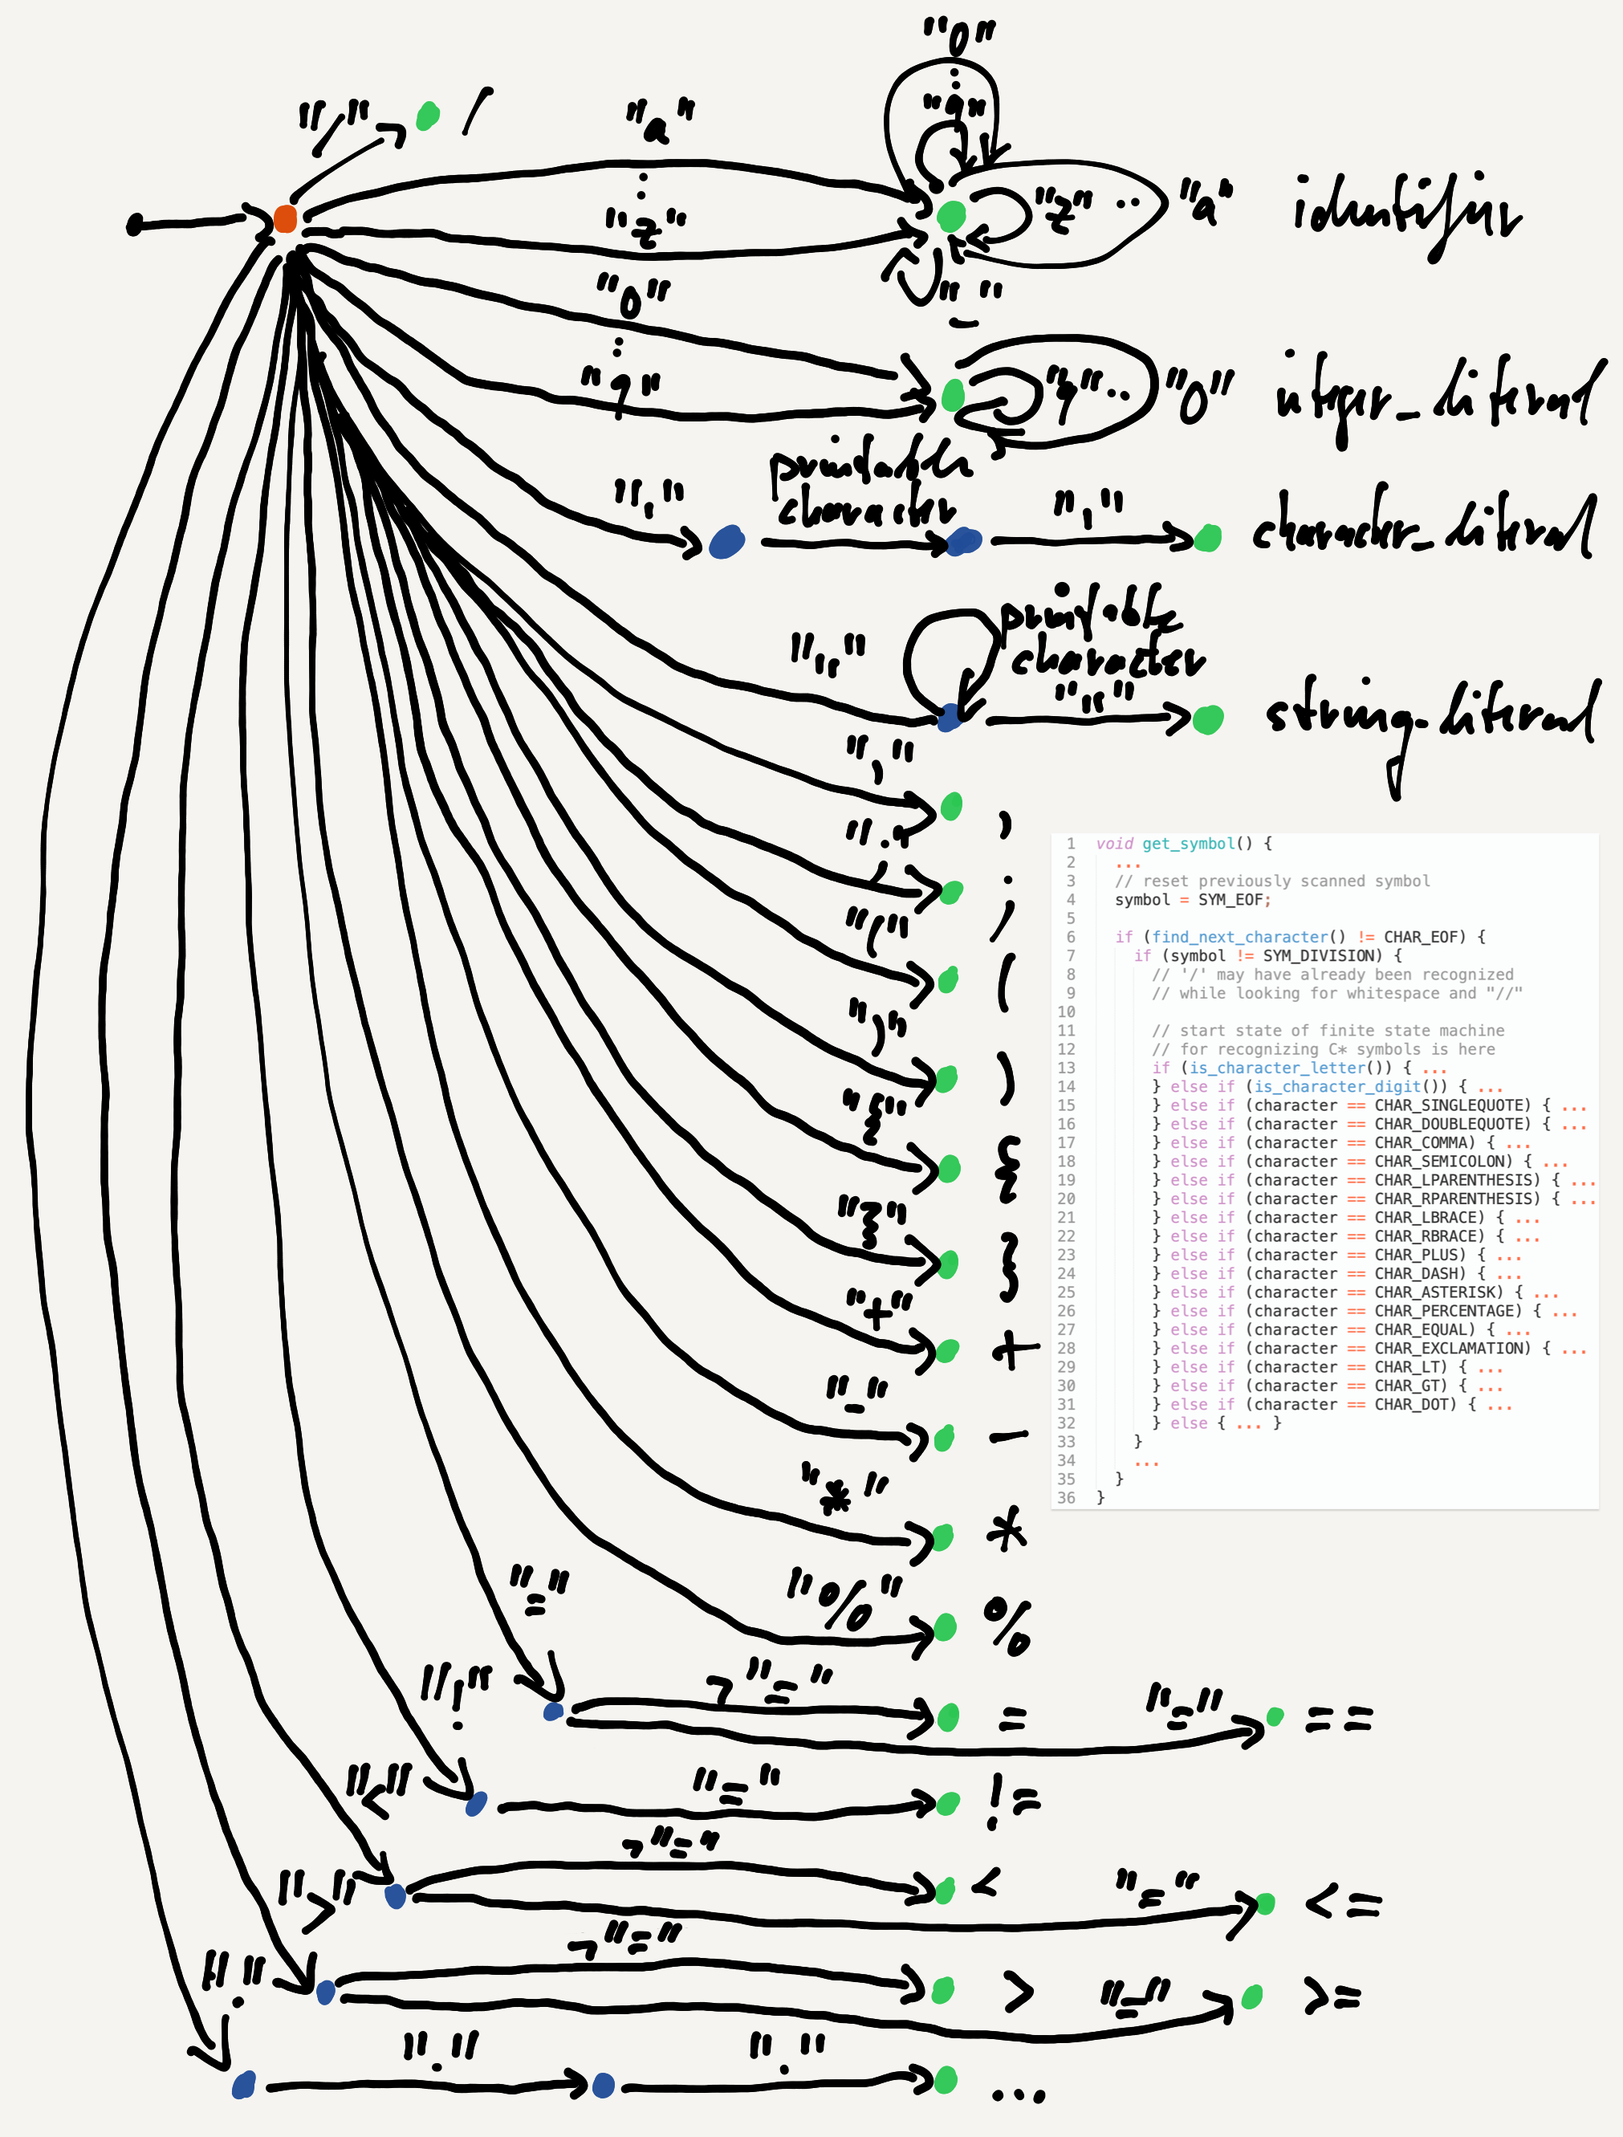
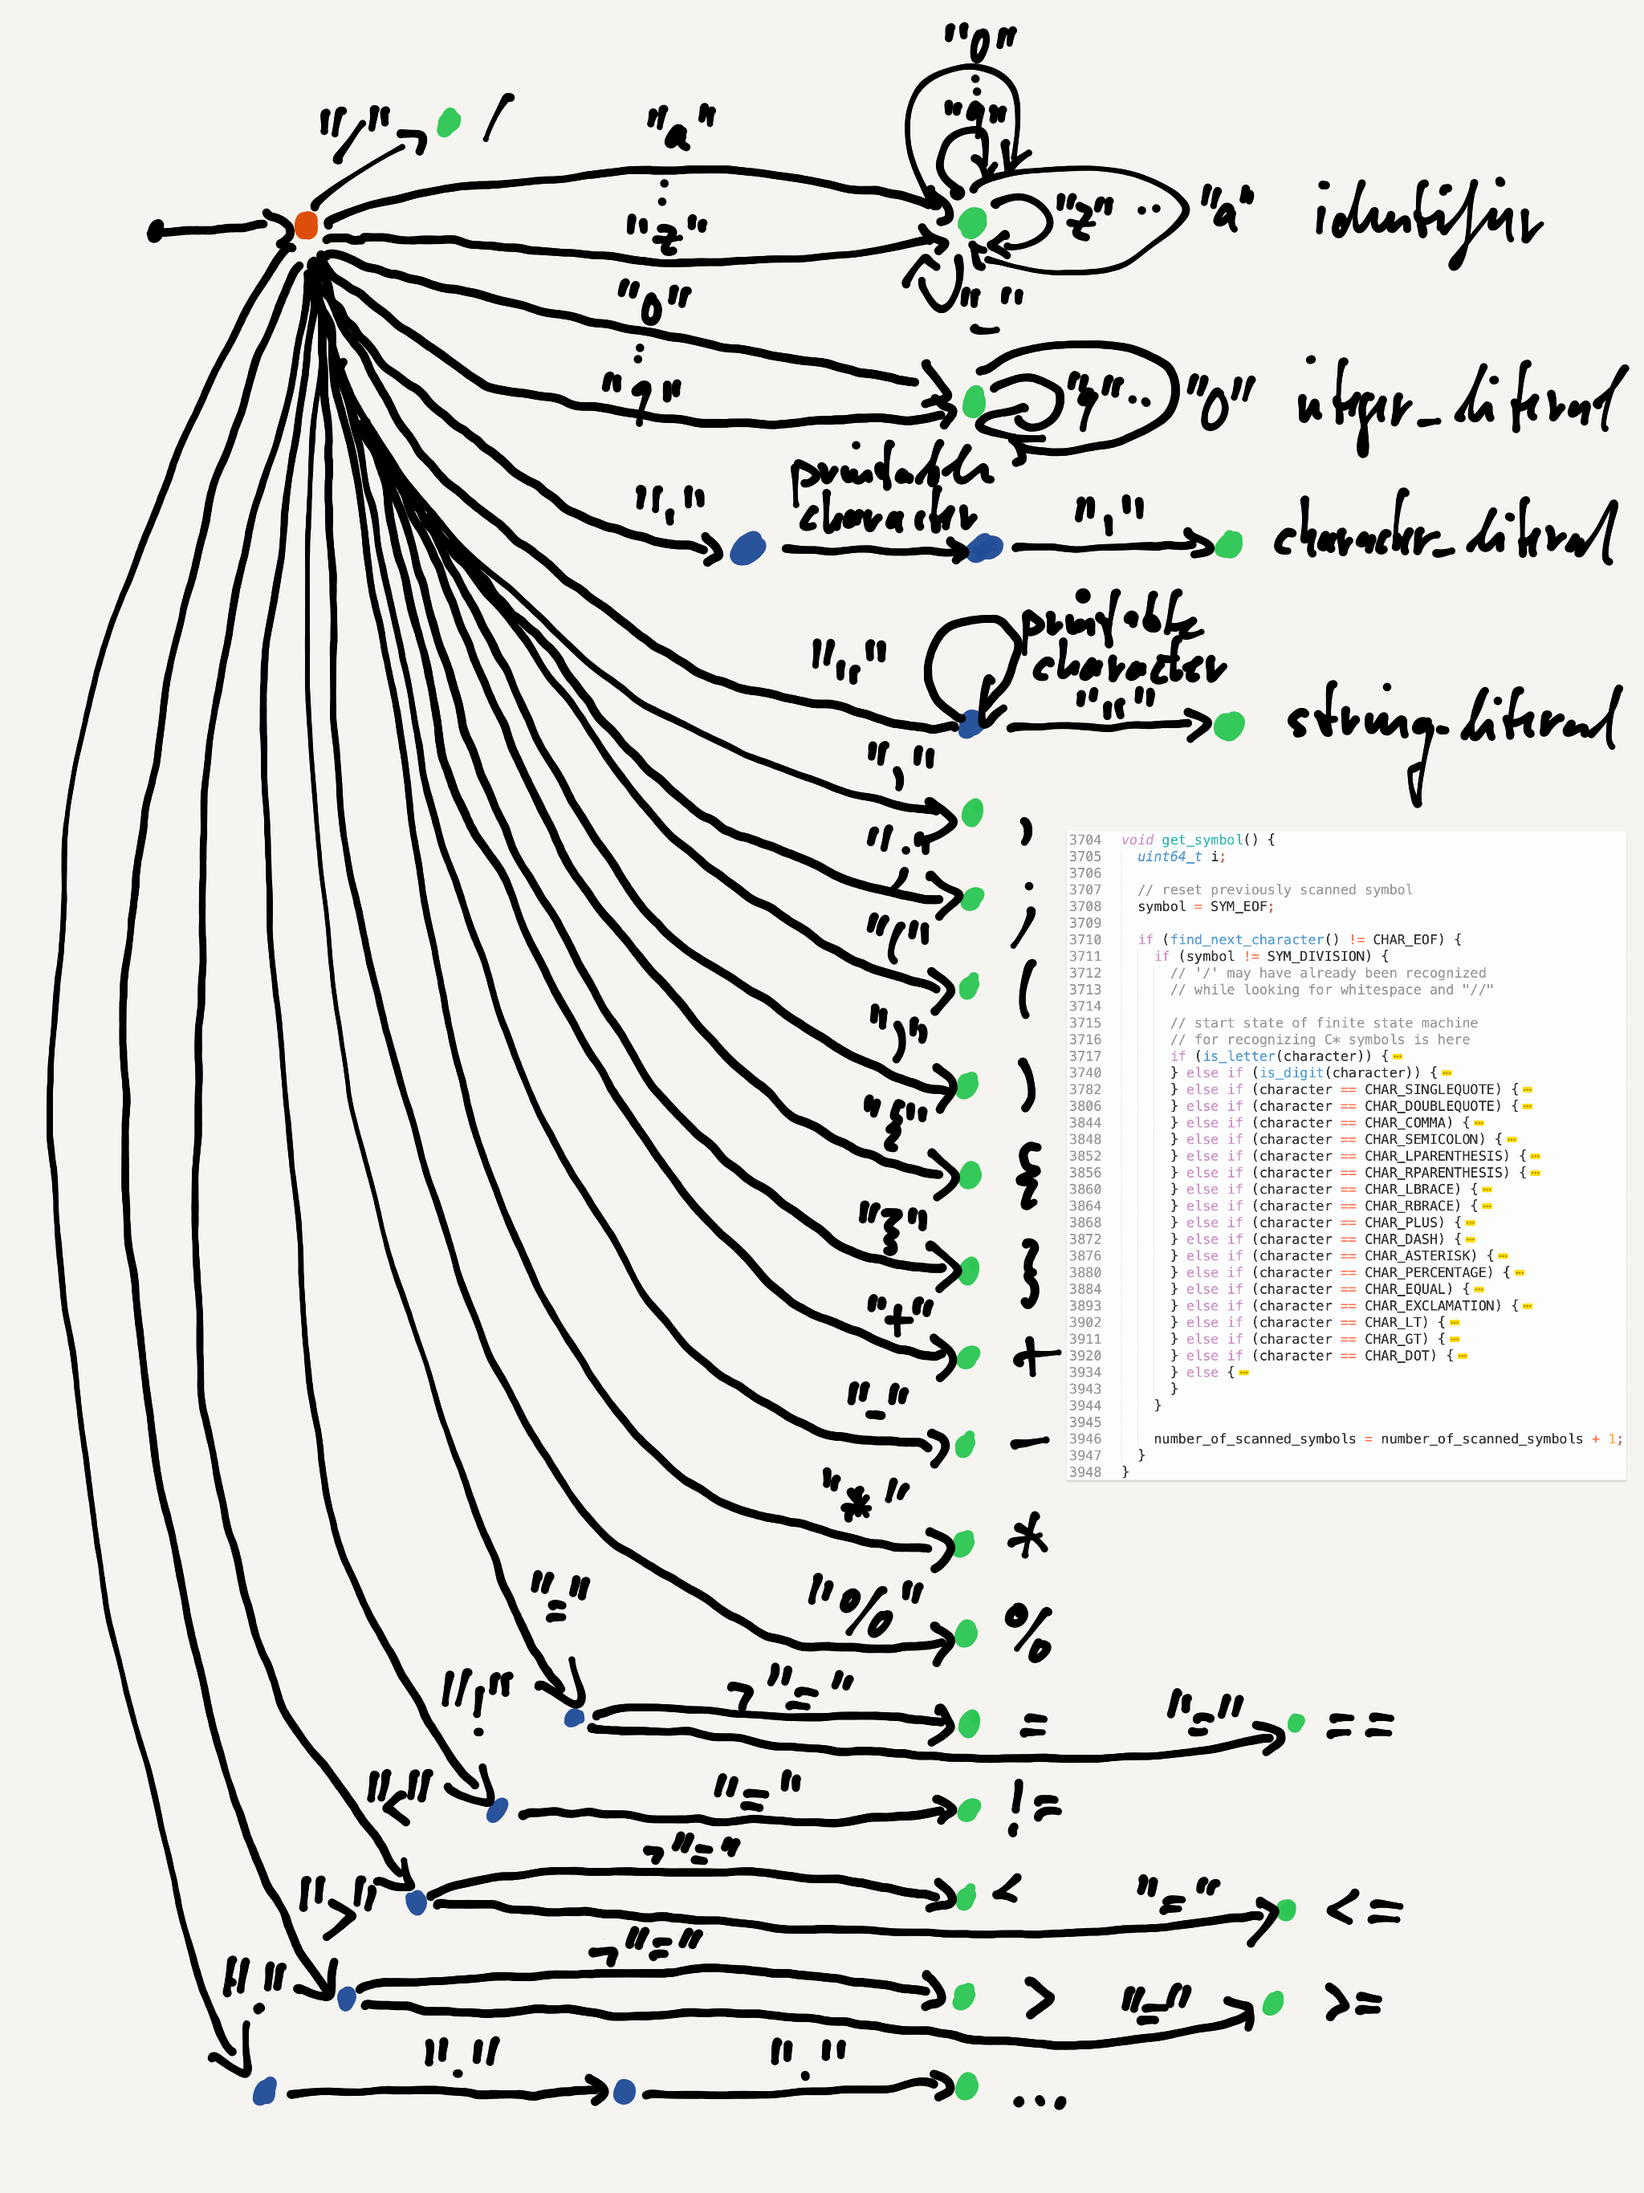
Updating scanner figures

diff --git a/README.md b/README.md
@@ -3688,7 +3688,9 @@ Scanning is easier than parsing, so we begin with that.
 
 ![Scanning Integer Literals](figures/scanning-integer-literals.png "Scanning Integer Literals")
 
-![Scanning Character and String Literals](figures/scanning-character-string-literals.png "Scanning Character and String Literals")
+![Scanning Character Literals](figures/scanning-character-literals.png "Scanning Character Literals")
+
+![Scanning String Literals](figures/scanning-string-literals.png "Scanning String Literals")
 
 ![Parsing Literals](figures/parsing-literals.png "Parsing Literals")
 
